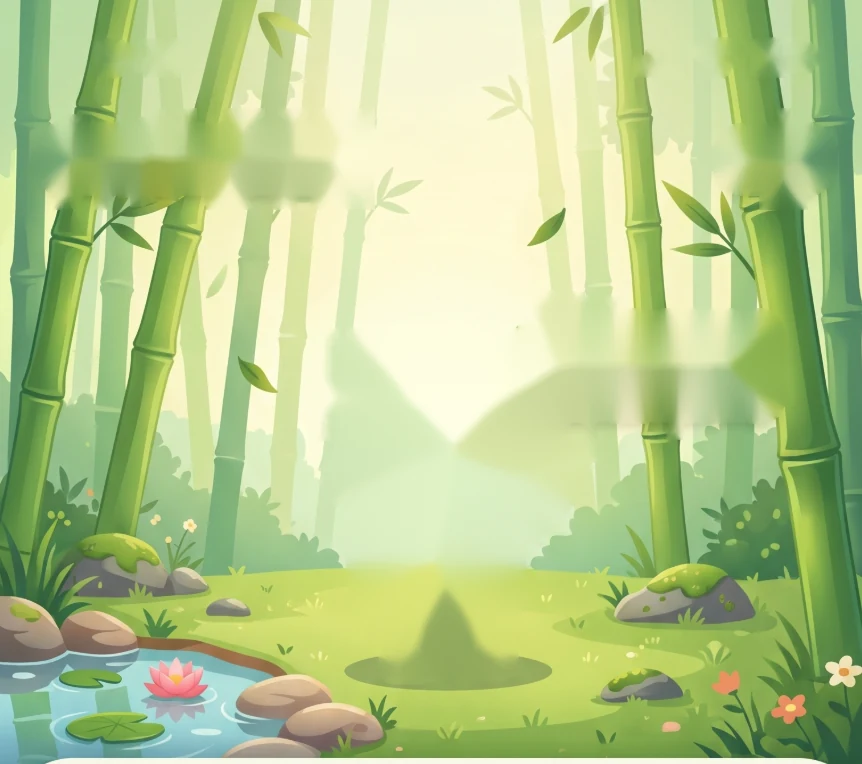
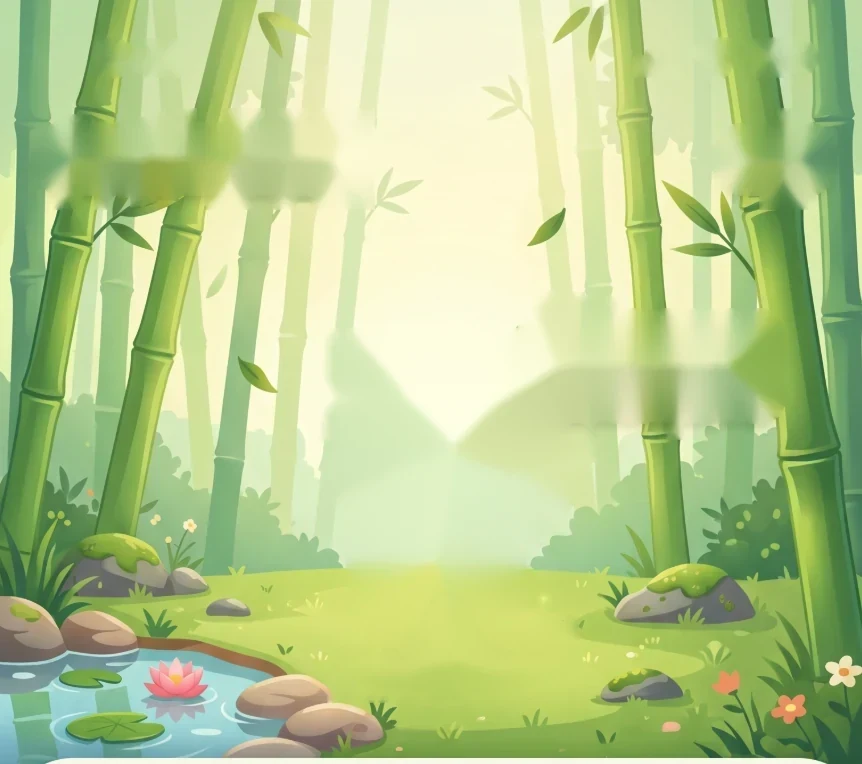
Keep Today still and paint out the panda's shadow
The home screen carries no animation until the new ones are designed: the
coach no longer bobs, buttons and pack tiles no longer press down, and a
released timeline row settles back at once instead of springing. The dark
shadow the mockup painted under its panda is taken out of the grove art.

Claude-Session: https://claude.ai/code/session_01QJZvwzu5HTwhpRK6b2XDZL

Changed region(s): [[0.3921, 0.7827, 0.6334, 0.9031]]

diff --git a/src/today/today.css b/src/today/today.css
@@ -243,12 +243,6 @@
   font-size: 14px;
   font-weight: 900;
   cursor: pointer;
-  transition: transform 120ms ease, background 120ms ease;
-}
-
-.next-capsule__snooze:active,
-.next-capsule__start:active {
-  transform: scale(0.97);
 }
 
 /* Outlined in the accent: the quieter half of the same pair. */
@@ -341,12 +335,6 @@
   padding: 0;
   overflow: hidden;
   cursor: pointer;
-  transition: transform 120ms ease;
-}
-
-.pack__art:active,
-.pack__add:active {
-  transform: scale(0.97);
 }
 
 .pack__add {
@@ -470,13 +458,10 @@
   padding: 12px 14px;
   box-shadow: var(--shadow-card-soft);
   cursor: pointer;
-  /* The row tracks the finger exactly while dragging, and springs back on
-     release — hence the transition only on the settled state. */
+  /* The row tracks the finger exactly while dragging and settles back at
+     once on release: Today carries no animation until the new ones are
+     designed. */
   transition: none;
-}
-
-.tl-row[data-swiping='false'] {
-  transition: transform 180ms ease-out;
 }
 
 .tl-row__time {
@@ -665,11 +650,6 @@
   box-shadow: 0 12px 26px oklch(0.62 0.18 34 / 34%);
   pointer-events: auto;
   cursor: pointer;
-  transition: transform 120ms ease;
-}
-
-.start-pill:active {
-  transform: scale(0.98);
 }
 
 /* ---- Tab bar --------------------------------------------------------- */

diff --git a/src/today/Today.tsx b/src/today/Today.tsx
@@ -251,12 +251,14 @@ function Header({
       </div>
 
       {/* The coach stands in the clearing and speaks from beside its head,
-          so its line is the screen's headline without covering the scene. */}
+          so its line is the screen's headline without covering the scene.
+          It stands still: Today carries no animation until the new ones
+          are designed, so no idle bob. */}
       <Mascot
         name="wave"
         size={186}
         alt={`${COACH_LABEL[coach]} coach`}
-        className="today__coach bob"
+        className="today__coach"
       />
       <h1 className="today__bubble">{coachLine(done, goal, sitting)}</h1>
     </header>
